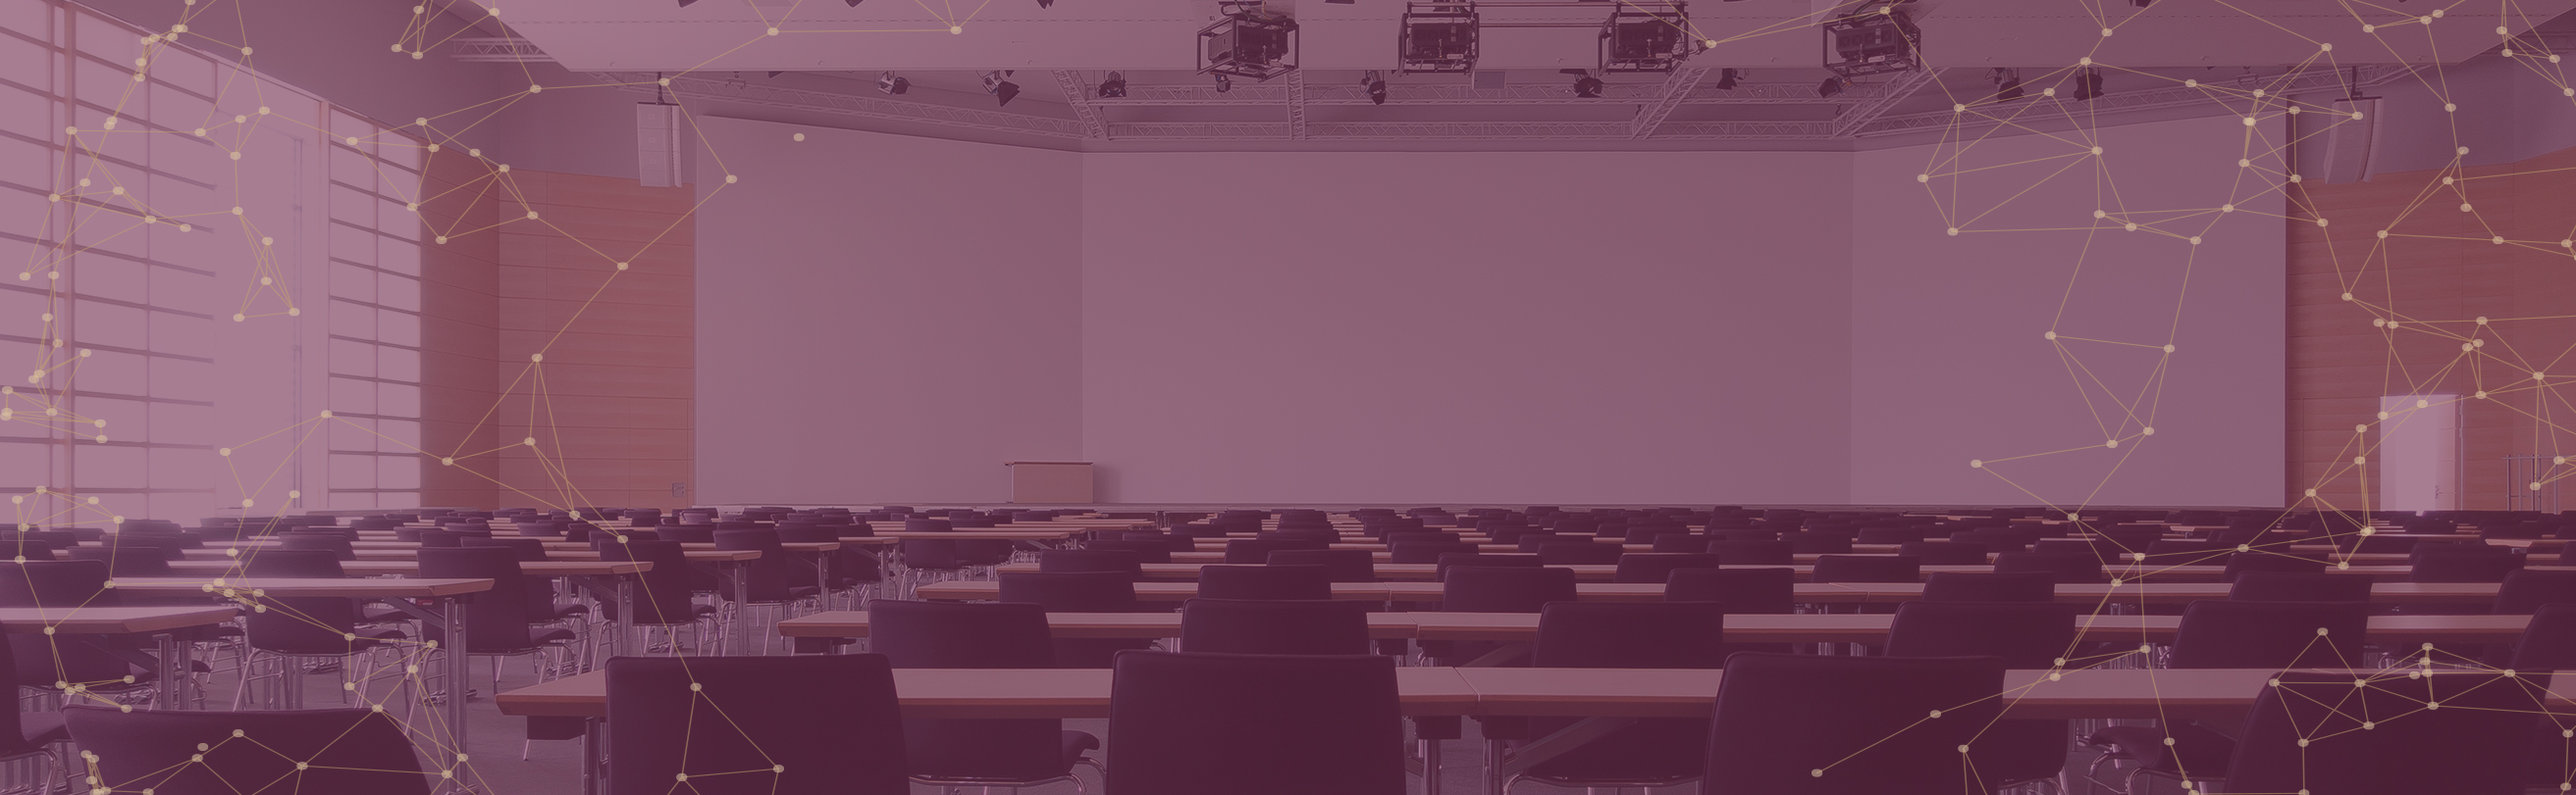
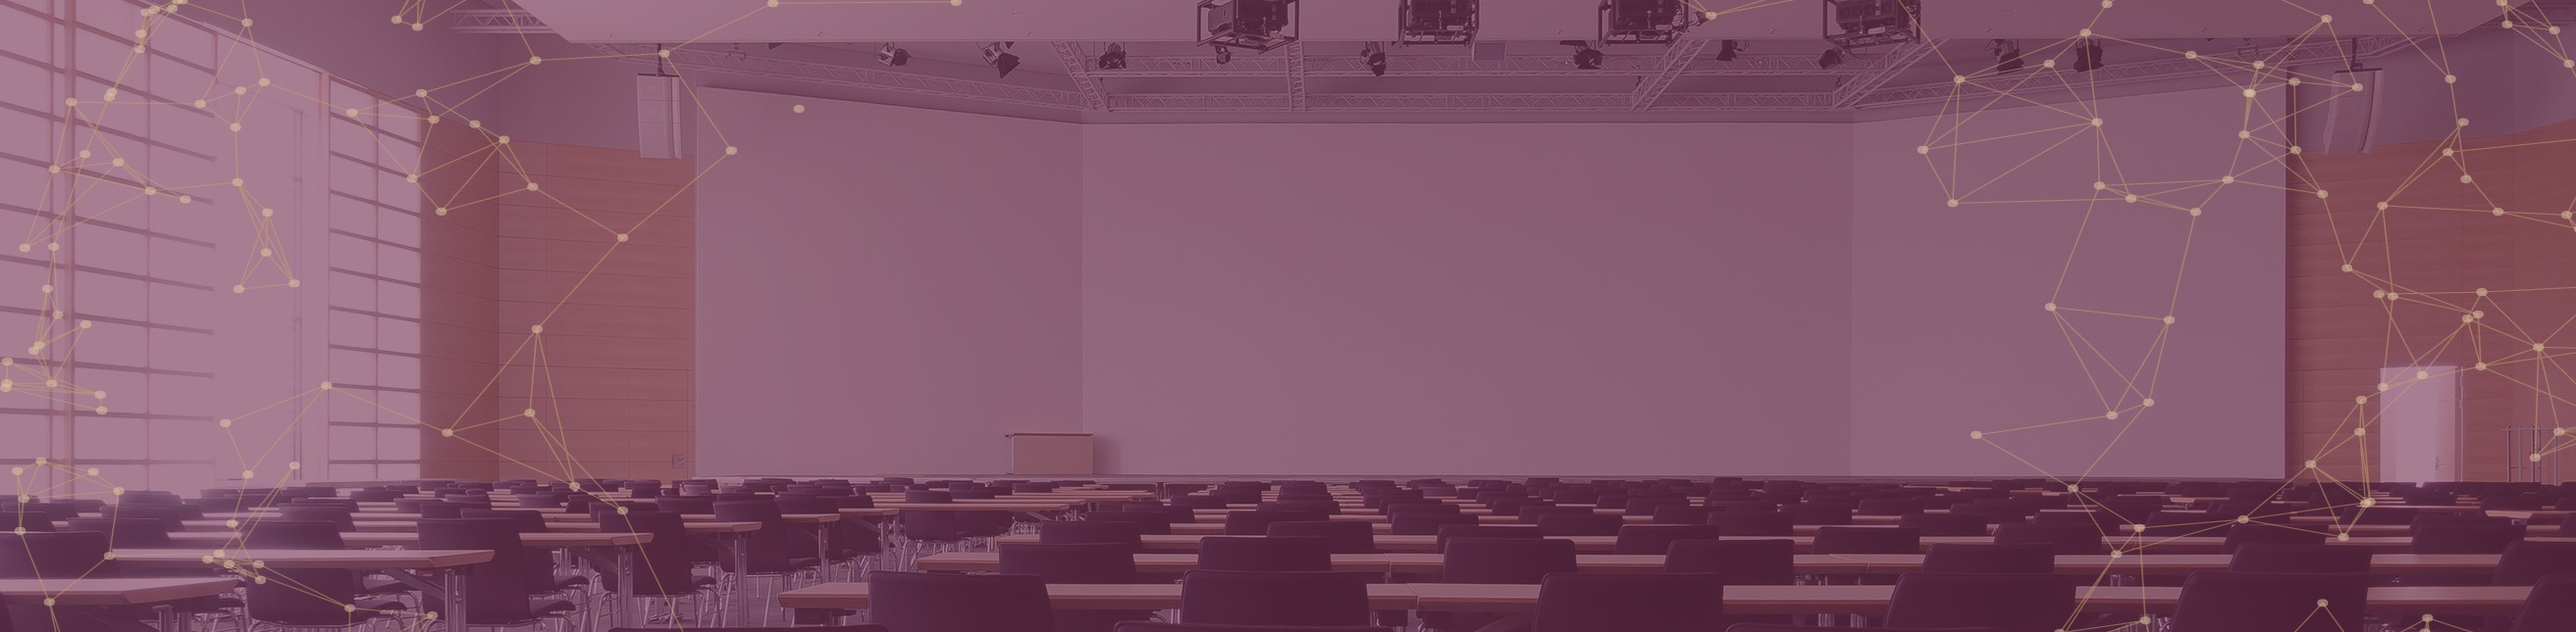
Update 1.4.1 - poprawki wizualne

diff --git a/scheduler_project/static/styles/style.css b/scheduler_project/static/styles/style.css
@@ -45,8 +45,8 @@
 }
 
 .carousel_resize {
-    width:100%;
-    height: 60vh;
+    width: 100%;
+    height: 40vh;
 }
 
 errormsg {
@@ -150,7 +150,7 @@ p.topic {
 
 .navbar {
 	background-color: #fff;
-	height: 100px;
+	height: 90px;
 	border-bottom: 0.5px solid rgb(195,162,109);
 	padding-bottom: 10px;
 }
@@ -201,8 +201,8 @@ p.topic {
 	position: absolute;
 	opacity: 0;
 	top: 0;
-	right: -20px;
-	transition: 0.5s;
+	right: -10px;
+	transition: 0.3s;
 	}
 
 .btn:hover span {
@@ -224,16 +224,7 @@ p.topic {
 	background-color: #743952;
 }
 
-#rcorners2 {
-  border-radius: 25px;
-  border: 2px solid #73AD21;
-  padding: 20px;
-  width: 200px;
-  height: 150px;
-}
-
 .header {
-
   text-align: center;
   background: #1abc9c;
   color: white;

diff --git a/scheduler_project/schedule/templates/schedule/base.html b/scheduler_project/schedule/templates/schedule/base.html
@@ -17,18 +17,15 @@
     <script src="https://maxcdn.bootstrapcdn.com/bootstrap/4.0.0-alpha.6/js/bootstrap.min.js" integrity="sha384-vBWWzlZJ8ea9aCX4pEW3rVHjgjt7zpkNpZk+02D9phzyeVkE+jo0ieGizqPLForn" crossorigin="anonymous"></script>
 </head>
   <body>
-
   {% include 'schedule/navbar.html' %}
 
   <!-- belka z nazwą zalogowanego użytkownika -->
   {% if user.is_authenticated %}
-    <div class="header">
-        <p>Zalogowany jako <b>{{request.user}}</b></p>
-    </div>
-  {% endif %}
 
+    <div class="header"> <p>Zalogowany jako <b>{{request.user}}</b></p> </div>
+
+  {% endif %}
     {% block content %}
     {% endblock %}
-
   </body>
 </html>

diff --git a/scheduler_project/schedule/templates/schedule/home.html b/scheduler_project/schedule/templates/schedule/home.html
@@ -12,6 +12,8 @@
 
 <main role="main">
 
+    <!-- KARUZELA -->
+
 	<div class="col-md-12">
 		<div id="carouselExampleIndicators" class="carousel slide" data-ride="carousel">
 		  <ol class="carousel-indicators">
@@ -47,9 +49,6 @@
 
 		  </div>
 
-
-
-
 		  <a class="carousel-control-prev" href="#carouselExampleIndicators" role="button" data-slide="prev">
 		    <span class="carousel-control-prev-icon" aria-hidden="true"></span>
 		    <span class="sr-only">Previous</span>
@@ -60,6 +59,9 @@
 		  </a>
 		</div>
     </div>
+
+    <!-- KONIEC KARUZELI -->
+
     <br><br>
     <h1 style="text-align:center">Nadchodzące szkolenia</h1>
     <hr>

diff --git a/scheduler_project/schedule/templates/schedule/navbar.html b/scheduler_project/schedule/templates/schedule/navbar.html
@@ -64,4 +64,6 @@
 
 </nav>
 
+
+
 {% endblock %}

diff --git a/scheduler_project/schedule/models.py b/scheduler_project/schedule/models.py
@@ -28,8 +28,3 @@ class Event(models.Model):
 
     def __str__(self):
         return self.title
-
-
-@property
-def is_past_due(self):
-    return date.today() > self.date
